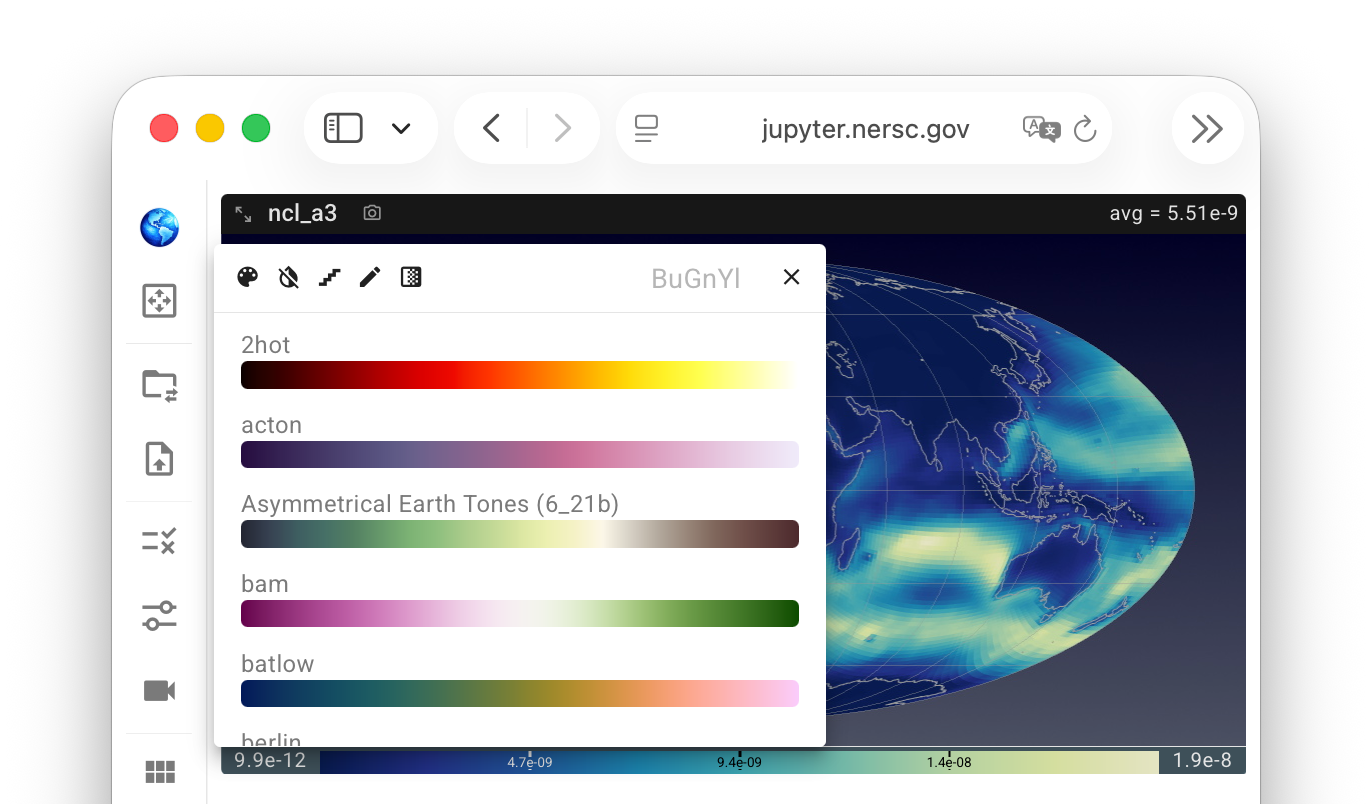
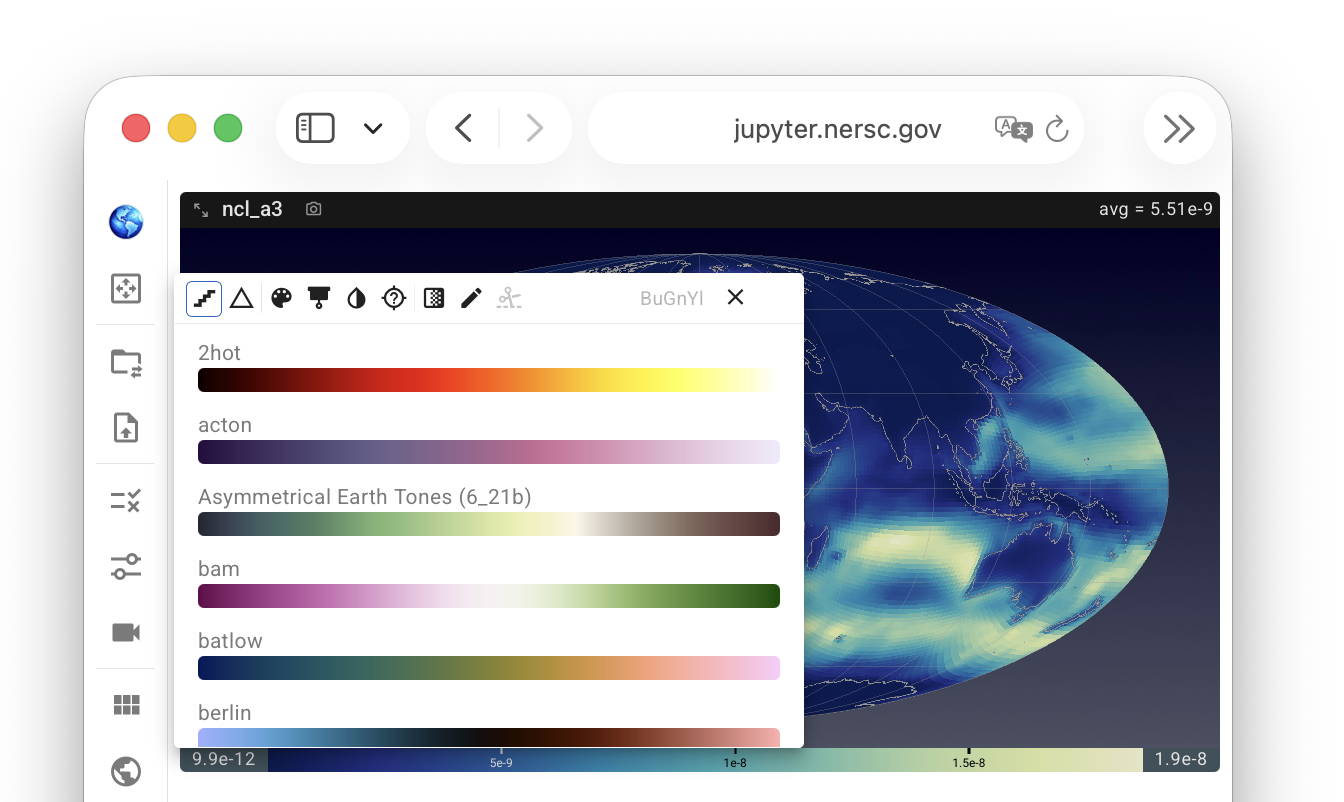
docs(quickview): colormap utils, work in progress

diff --git a/docs/guides/quickview/individual_views.md b/docs/guides/quickview/individual_views.md
@@ -2,41 +2,44 @@
 
 # Customizing Individual Views
 
-![pop-up panel](./screenshots/single_view_pop-up_panel.png){ width="60%", align=right }
+![pop-up panel](./screenshots/single_view_pop-up_panel.png){ width="75%", align=right }
 
 Each view in the viewport (i.e., each contour plot shown on a global or regional map)
 can be customized individually by clicking the associated colorbar.
-The click brings up a small pop-up panel like in the screenshot here,
+The click brings up a small control panel like in the screenshot here,
 allowing the user to control various properties of the mapping between
 the variable values and the contour colors.
+Only one panel can be open at a time — opening one automatically closes any other.
 
+Each control panel contains up to three sections arranged from top to bottom:
 
-## Colormap search and selection
+- **Toolbar** — This includes a row of icon buttons across the top (explained in more detail below),
+  a colormap search field showing the name of the colormap currently in use,
+  and a cross icon (✕) for dismissing the control panel.
 
-![colormap collection icons](./screenshots/colormap_collection_icons.png){ width="12%", align=right }
+- **Settings panels** — Context-sensitive input boxes that appear below the toolbar
+  depending on which icon buttons in the toolbar have been activated.
 
-QuickView has included most of the colormap "presets" from [ParaView](https://www.paraview.org/)
-and all palettes from the color vision deficiency-friendly (CVD-friendly)
-[colormap collection by Fabio Crameri](https://www.fabiocrameri.ch/colourmaps/).
-By default, the pop-up panel presents colormaps from both sources for the user to choose from.
-A click on the color palette icon in the top-left corner of the pop-up panel
-changes the button to a shield icon and reduces the displayed list to
-the [collection by Fabio Crameri](https://www.fabiocrameri.ch/colourmaps/).
+- **Colormap list** — A scrollable list of colormap swatches, potentially filtered,
+  for the user to choose from. A click on a swatch applies the colormap immediately.
 
+Tips:
 
-The top-right corner of the pop-up panel contains a text box for filtering colormaps
-using a fuzzy search on their names. The x icon clears the filter.
+- Most of the icon buttons are toggles, i.e., switches between two options.
+  Activated modes are highlighted with blue frames.
+- A few of the icon buttons open dropdown menus upon click. Once the user makes
+  a selection, the dropdown closes automatically.
+- Some of the buttons correspond to incompatible functionalities, hence activating
+  one button might result in another button to be disabled and shown in gray.
 
-![color invert on/off](./screenshots/invert_color_icons.png){ width="12%", align=right }
+More details are provided below.
 
-The second icon in the top-left corner is a toggle
-for inverting and resetting the sequence of colors. 
 
 ## Linear vs. logarithmic scales {#linear-and-log-scales}
 
 ![linear and log](./screenshots/linear_log_icons.png){ width="16%", align=right }
 
-QuickView supports both linear and logarithmic color scaling to facilitate the inspection of variables that span multiple orders of magnitude.
+QuickView supports linear, logarithmic, and symmetric logarithmic color scaling.
 
 - By default, a **linear scale** is used, indicated by a staircase-style icon in the pop-up panel.
 
@@ -44,34 +47,41 @@ QuickView supports both linear and logarithmic color scaling to facilitate the i
 
 - Because standard logarithmic scaling is only defined for positive values, QuickView also provides a **symmetric logarithmic (“symlog”)** scale, which accommodates negative values and zero. The symlog scale behaves linearly in a small region around zero and logarithmically away from zero, enabling consistent visualization of fields that include both positive and negative values.
 
-## Continuous vs. discrete colormaps
+## Delta difference mode
 
-![linear and log](./screenshots/continuous_and_discrete_colormap_icons.png){ width="12%", align=right }
+When the Δ icon is activated, a diverging colormap is used and
+the colorbar is centered at zero. A settings panel is displayed,
+allowing the user to enter a maximum absolute value (|max|) for colormapping,
+as well as an ε tolerance so that values within the range of [-ε, ε] are considered
+effectively zeros and are displayed in the color at the center of the colormap,
+as demonstrated in the right half of the screenshot below.
 
-QuickView supports both continuous and discrete colormaps, which can be toggled using the corresponding icon in the pop-up panel. A continuous colormap maps data values smoothly along a color gradient, so each value is represented by a unique color. In contrast, a discrete colormap groups values into a finite number of color bins, assigning the same color to all values within each bin .
+![delta difference mode](./screenshots/delta_difference_mode.png){ width="80%" }
 
-When a discrete colormap is selected, a text box allows the user to specify the number of colors.
+Additional notes:
 
--  With a linear scale, this value is interpreted as the number of colors between two neighboring (automatically determined) colorbar ticks.
--  With a logarithmic scale, it instead specifies the number of colors per order of magnitude.
-
-## Automatic vs. fixed data ranges
-
-By default, QuickView automatically fits the selected colormap over the entire range of values
-of the current variable in the current data slice.
-When the "play" button in the [animation control panel](./slice_selection) is used to
-step through different data slices,
-the colormap is automatically re-adjusted to fit the data range in each slice.
-
-
-![auto or fixed range icons](./screenshots/fixed_and_auto_range_icons.png){ width="12%", align=right }
-
-A click on the pencil icon in the pop-up panel brings up two boxes for the
-user to examine and specify the maximum and minimum values for colormapping.
-After these values are specified, the colormapping becomes fixed
-until the user clicks the expand icon to change back to automatic fit.
-
-![auto or fixed ranges](./screenshots/auto_or_fixed_ranges.png){ width="100%" }
+- The delta difference mode is disabled (grayed out) when a log scale is selected.
+  In reverse, after a user turns on the delta difference mode when using a linear or symlog scale,
+  the scale button will only toggle between linear and symlog scales.
+- In the delta difference mode, the colormap swatches displayed are limited to diverging-only. 
 
 
+## Color selection 
+
+The following icon buttons are provided for selecting and adjusting colormaps:
+
+| Icon |  Short name | Description |
+|------|-------------|-------------|
+| <img src="https://cdn.jsdelivr.net/npm/@mdi/svg/svg/palette.svg" width="24"> 
+| Colormap category
+| Opens a dropdown for user to select from one of the supported categories: Sequential, Multi-Sequential, Diverging, and Cyclic). Default is Sequential. This button is disabled in Δ difference mode, as the category is automatically set to diverging in that mode. |
+| <img src="https://cdn.jsdelivr.net/npm/@mdi/svg/svg/blinds.svg" width="24">
+| Colorblind-safe
+| Limits the displayed *colormap list* to colorblind-safe options within the active category. |
+| <img src="https://cdn.jsdelivr.net/npm/@mdi/svg/svg/invert-colors.svg" width="24">
+| Invert colormap
+| Reverses the colormap direction, both in the *colorbar* and in the displayed *colormap list*). |
+| <img src="https://cdn.jsdelivr.net/npm/@mdi/svg/svg/crosshairs-question.svg" width="24">
+| NaN color
+| Opens a dropdown for the user to select the color for NaN/missing data. Default is transparent. Shows a scrollable list. |
 
